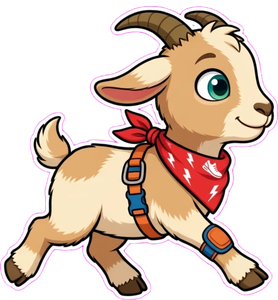
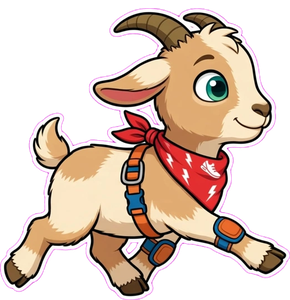
BAIFO: ciclo de paseo nuevo con las 4 patas + icono propio en el escritorio y aparición estelar aleatoria (cae del cielo girando, entra corriendo o puf); SW v9

diff --git a/sw.js b/sw.js
@@ -1,5 +1,5 @@
 /* TIDElabs Desk — service worker: la casa funciona sin conexion */
-const CACHE = "tidelabs-desk-v8";
+const CACHE = "tidelabs-desk-v9";
 self.addEventListener("install", e => { self.skipWaiting(); });
 self.addEventListener("activate", e => {
   e.waitUntil(caches.keys().then(ks => Promise.all(ks.filter(k => k !== CACHE).map(k => caches.delete(k)))).then(() => self.clients.claim()));
